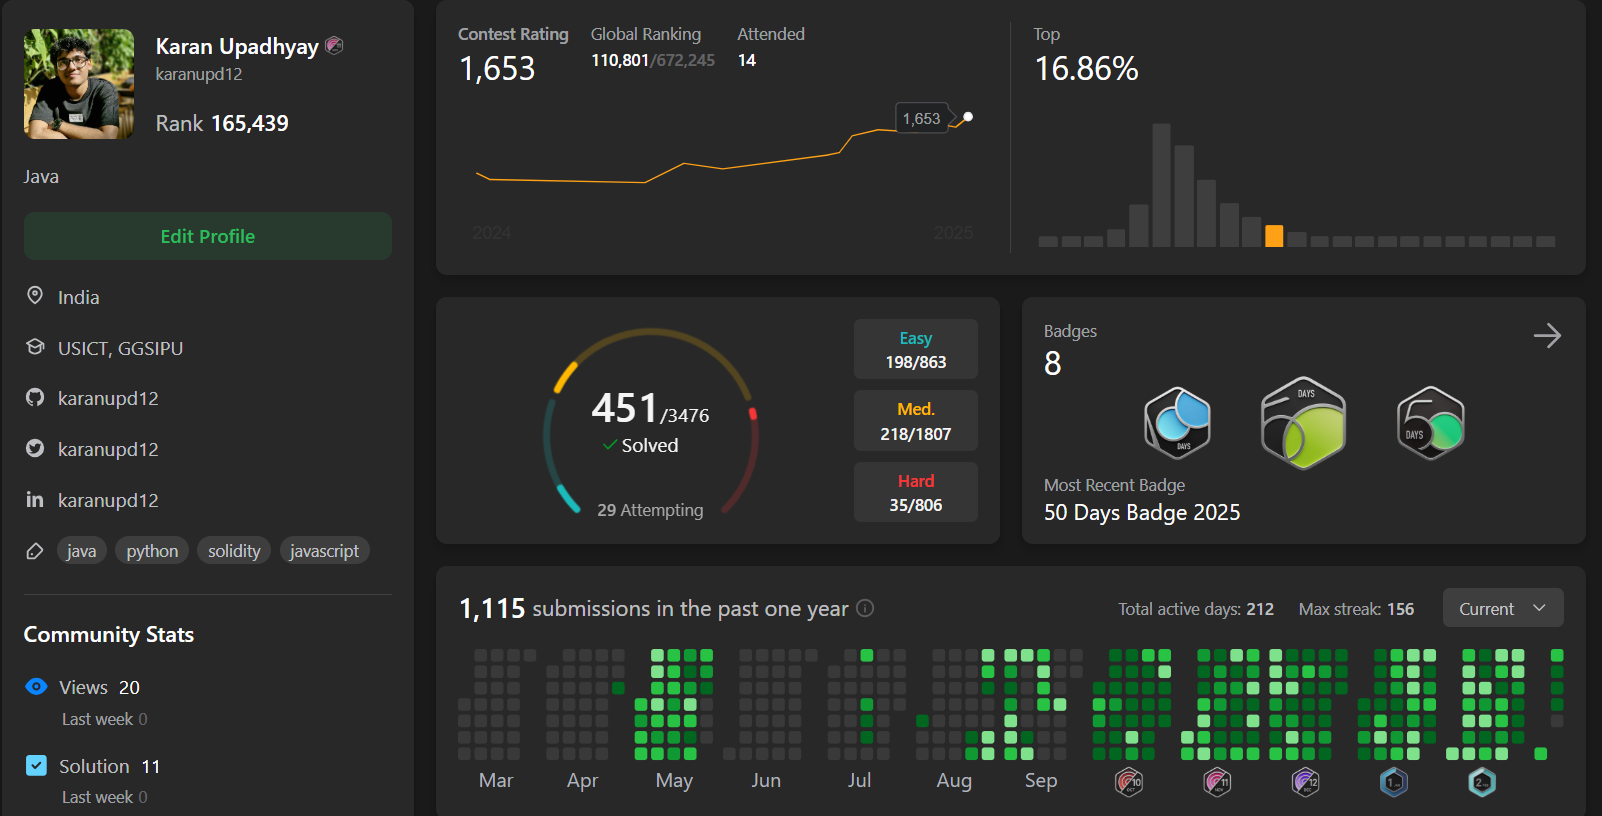
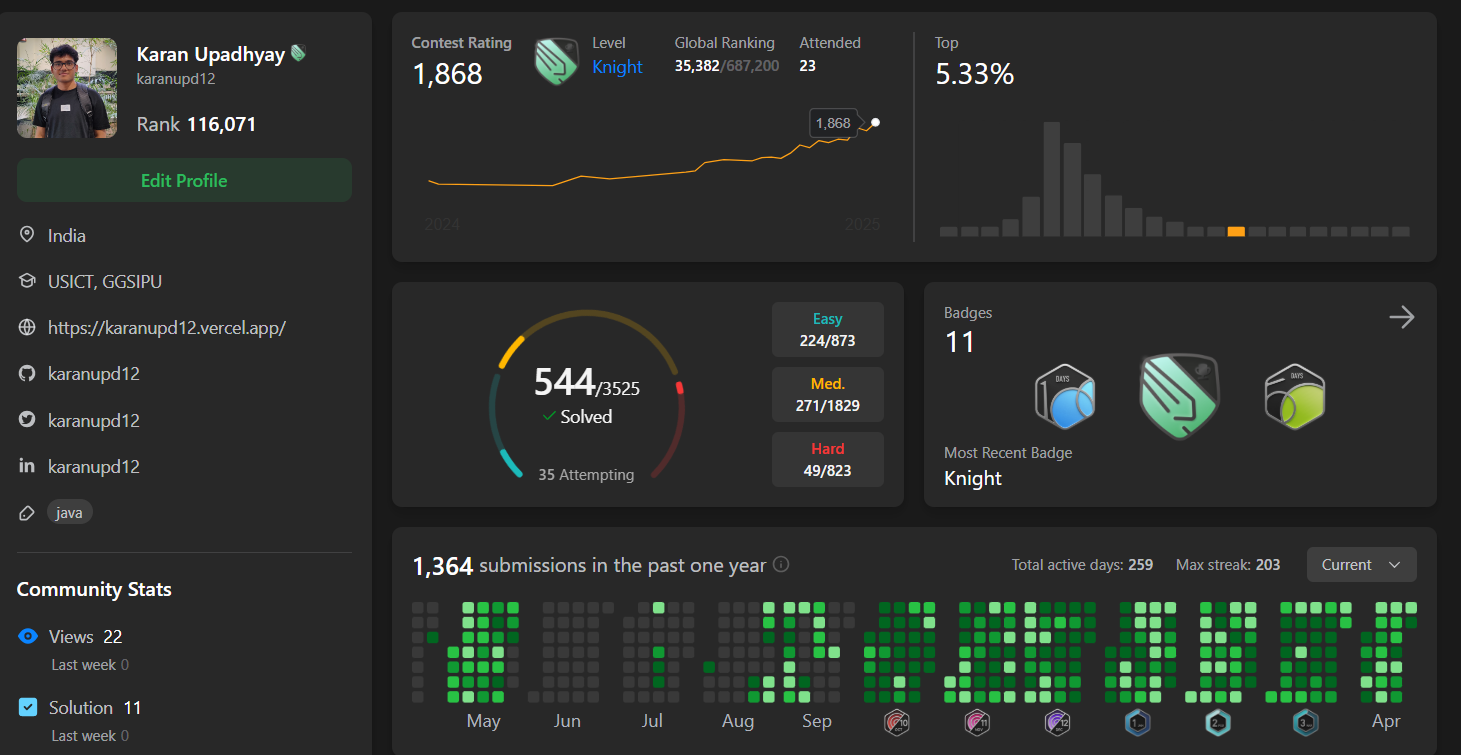
Knight status added

diff --git a/src/components/Navbar.jsx b/src/components/Navbar.jsx
@@ -47,19 +47,19 @@ const Navbar = () => {
         initial={{ y: -20, opacity: 0 }}
         animate={{ y: isVisible ? 0 : -20, opacity: isVisible ? 1 : 0 }}
         transition={{ type: "spring", stiffness: 300, damping: 30 }}
-        className="fixed top-0 left-0 right-0 z-50 w-full px-4 py-3"
+        className="fixed top-4 left-0 right-0 z-50 w-full px-4"
       >
         <div className="max-w-4xl mx-auto">
-          <div className="relative overflow-hidden bg-neutral-800 backdrop-blur-md border border-neutral-700 shadow-lg rounded-full">
+          <div className="relative overflow-hidden bg-neutral-800/90 backdrop-blur-md border border-neutral-700 shadow-lg rounded-full">
             {/* Progress bar */}
             <motion.div 
               style={{ width: `${scrollProgress}%` }}
-              className="absolute bottom-0 left-0 h-0.5 bg-gradient-to-r from-neutral-500 to-white"
+              className="absolute bottom-0 left-0 h-0.5 bg-gradient-to-r from-blue-500 to-blue-300"
             />
 
             {/* Desktop menu */}
             <div className="hidden md:flex items-center justify-between px-6 py-2">
-              <Link href="#" className="text-white-500 font-thin tracking-wider">@karanupd12</Link>
+              <Link href="#" className="text-white font-thin tracking-wider">@karanupd12</Link>
               
               <div className="flex space-x-6">
                 {navItems.map((item, index) => (
@@ -69,7 +69,7 @@ const Navbar = () => {
                     className="relative group py-2"
                   >
                     <div className="flex items-center space-x-2">
-                      <item.icon className={`w-4 h-4 ${activeSection === item.href.substring(1) ? 'text-white' : 'text-neutral-500 group-hover:text-neutral-300'}`} />
+                      <item.icon className={`w-4 h-4 ${activeSection === item.href.substring(1) ? 'text-blue-400' : 'text-neutral-500 group-hover:text-neutral-300'}`} />
                       <span className={`text-sm ${activeSection === item.href.substring(1) ? 'text-white' : 'text-neutral-400 group-hover:text-neutral-200'}`}>
                         {item.name}
                       </span>
@@ -79,7 +79,7 @@ const Navbar = () => {
                     {activeSection === item.href.substring(1) && (
                       <motion.div 
                         layoutId="activeIndicator"
-                        className="absolute -bottom-1 left-0 right-0 h-0.5 bg-white"
+                        className="absolute -bottom-1 left-0 right-0 h-0.5 bg-blue-400"
                       />
                     )}
                   </Link>
@@ -101,16 +101,16 @@ const Navbar = () => {
         </div>
       </motion.nav>
       
-      {/* Mobile menu */}
+      {/* Mobile menu - positioning adjusted */}
       <AnimatePresence>
         {isOpen && (
           <motion.div 
             initial={{ opacity: 0, y: -10 }}
             animate={{ opacity: 1, y: 0 }}
             exit={{ opacity: 0, y: -10 }}
-            className="fixed top-16 left-5 right-5 z-40 bg-neutral-700 backdrop-blur-md border-t border-b rounded-xl border-neutral-800 md:hidden"
+            className="fixed top-20 left-5 right-5 z-40 bg-neutral-800/95 backdrop-blur-md border border-neutral-700 rounded-xl shadow-lg md:hidden"
           >
-            <div className="max-w-4xl mx-auto p-4">
+            <div className="max-w-4xl mx-auto p-2">
               {navItems.map((item, index) => (
                 <motion.div
                   key={index}
@@ -121,11 +121,11 @@ const Navbar = () => {
                   <Link
                     href={item.href}
                     onClick={() => setIsOpen(false)}
-                    className={`flex items-center space-x-3 p-3 my-1 rounded ${
-                      activeSection === item.href.substring(1) ? 'bg-neutral-800 text-white' : 'text-neutral-300'
+                    className={`flex items-center space-x-3 p-3 my-1 rounded-lg ${
+                      activeSection === item.href.substring(1) ? 'bg-blue-600/20 text-white border-l-2 border-blue-400' : 'text-neutral-300 hover:bg-neutral-700/50'
                     }`}
                   >
-                    <item.icon size={18} />
+                    <item.icon size={18} className={activeSection === item.href.substring(1) ? 'text-blue-400' : ''} />
                     <span>{item.name}</span>
                   </Link>
                 </motion.div>
@@ -144,7 +144,7 @@ const Navbar = () => {
             exit={{ scale: 0, opacity: 0 }}
             whileHover={{ scale: 1.1 }}
             onClick={() => window.scrollTo({ top: 0, behavior: 'smooth' })}
-            className="fixed bottom-6 right-6 z-30 p-2 rounded-full bg-neutral-800/90 border border-neutral-700/50 text-white shadow-lg"
+            className="fixed bottom-6 right-6 z-30 p-2 rounded-full bg-blue-600 border border-blue-500/50 text-white shadow-lg"
           >
             <ChevronUp size={20} />
           </motion.button>

diff --git a/src/components/Skills.jsx b/src/components/Skills.jsx
@@ -297,19 +297,9 @@ const Skills = () => {
                         {achievement.title}
                       </h4>
                       
-                      <ul className="space-y-2 text-xs sm:text-sm text-neutral-300">
+                      <ul className="space-y-2 text-xs sm:text-sm text-neutral-300 list-disc pl-5">
                         {achievement.description.map((detail, i) => (
-                          <motion.li
-                            key={i}
-                            initial={{ opacity: 0, x: -10 }}
-                            whileInView={{ opacity: 1, x: 0 }}
-                            transition={{ delay: 0.3 + i * 0.1 }}
-                            viewport={{ once: true }}
-                            className="flex items-start"
-                          >
-                            <span className="text-white-400 mr-2 flex-shrink-0 mt-0.5">•</span>
-                            <span>{detail}</span>
-                          </motion.li>
+                          <li key={i}>{detail}</li>
                         ))}
                       </ul>
                     </div>

diff --git a/src/data/achievementDetails.js b/src/data/achievementDetails.js
@@ -29,8 +29,8 @@ const achievementDetails = [
         count: 750,
         suffix: "+",
         description: [
-            "Peak LeetCode rating of 1741 (among top 10%)",
-            "Solved over 750 problems across multiple coding platforms",
+            "Knight at LeetCode (Max Rating - 1868, among top 5%)",
+            "Solved over 800 problems across multiple coding platforms",
             "Ranked among top 4% of Java leetcoders globally"
         ],
         image: "/assets/leetcode.png"
@@ -41,7 +41,7 @@ const achievementDetails = [
         count: 8.1,
         suffix: "",
         description: [
-            "Cumulative GPA: 8.16 | SGPA: 8.96",
+            "Cumulative GPA: 8.13 | SGPA: 8.96",
             "Proficient in Core & Advanced Java, Spring Boot & Microservices",
             "Specialized in Data Structures and Algorithm analysis",
             "Certified Ethereum Developer - Infosys",

diff --git a/src/data/about.js b/src/data/about.js
@@ -3,7 +3,7 @@ export const educationDetails = [
         institution: "USICT, GGSIPU, Delhi",
         image: "/assets/college.png",
         degrees: [
-            { name: "B.Tech in Information Technology", duration: "2022 - Present", score: "8.16 CGPA | 8.91 SGPA", spec:"Specialization - Software Engineering"},
+            { name: "B.Tech in Information Technology", duration: "2022 - Present", score: "8.13 CGPA | 8.91 SGPA", spec:"Specialization - Software Engineering"},
         ],
         coursework: [
             { name: "Java Programming"},

diff --git a/src/data/skillsDetails.js b/src/data/skillsDetails.js
@@ -65,7 +65,7 @@ const skillsDetails = [
 
       // DevOps
       { name: "Docker", imageSrc: "/icons/docker.png" },
-      { name: "Kubernetes", imageSrc: "/icons/kubernetes.png" },
+      //{ name: "Kubernetes", imageSrc: "/icons/kubernetes.png" },
     ],
   },
 ];
